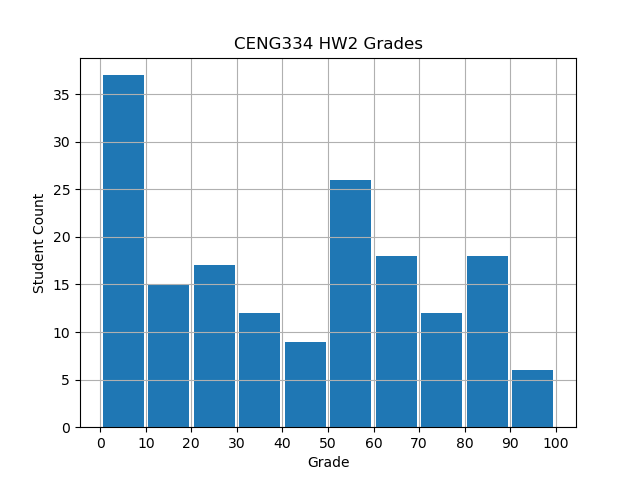
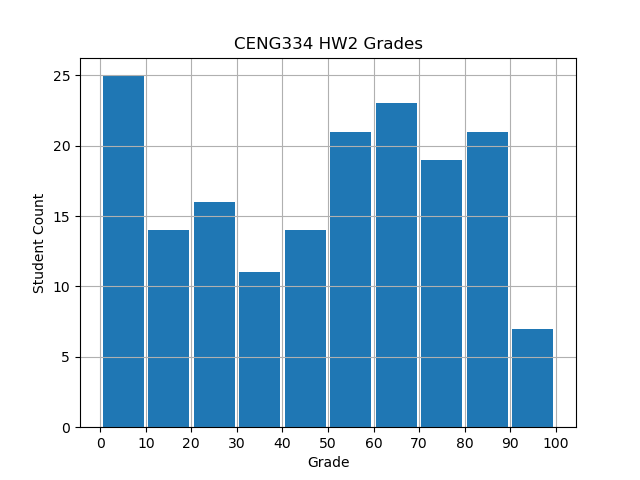
updated histogram after objections

diff --git a/grading/README.md b/grading/README.md
@@ -2,6 +2,8 @@
 
 ![](histogram.png)
 
+Average among submissions: 47.44
+
 # Grading Guide 
 
 I tried to not make grading harsh in general:
